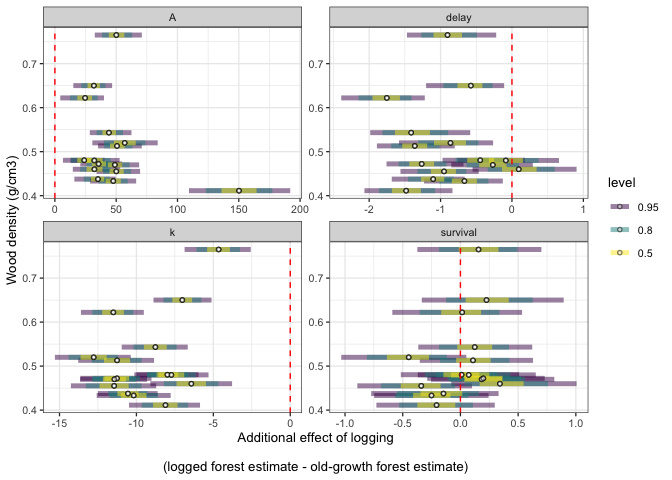
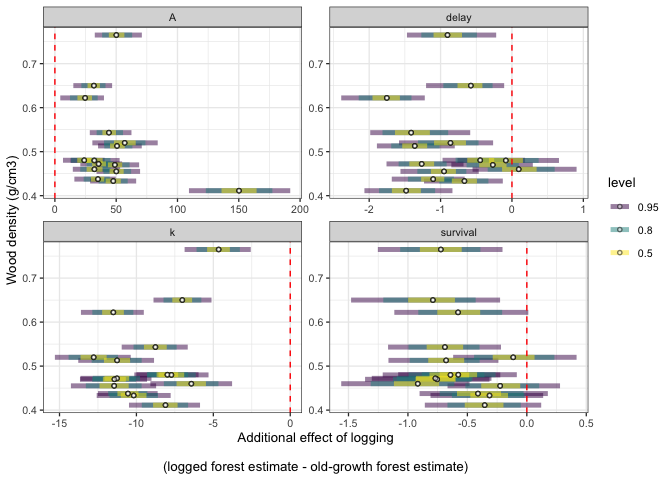
fix errors in survival calcs

diff --git a/code/notebooks/2025-07-03_wood-density.md b/code/notebooks/2025-07-03_wood-density.md
@@ -163,16 +163,18 @@ surv_params <-
                b_timetolastalive_forest_typelogged,
                b_timetolastalive_forest_typeprimary, regex=T) %>%
   mutate(value = case_when(forest_type == "forest_typeprimary" ~
-                             r_genus_species__timetolastalive + b_timetolastalive_forest_typeprimary,
+                             r_genus_species__timetolastalive +
+                             b_timetolastalive_forest_typeprimary,
                            forest_type == "forest_typelogged" ~
-                             r_genus_species__timetolastalive + b_timetolastalive_forest_typelogged)) %>%
+                             r_genus_species__timetolastalive +
+                             b_timetolastalive_forest_typelogged)) %>%
   mutate(forest_type = case_when(
     forest_type == "forest_typelogged" ~ "logged",
     forest_type == "forest_typeprimary" ~ "Primary")) %>% 
   pivot_wider(names_from = forest_type, 
               id_cols = c(genus_species, .chain, .iteration, .draw),
-              values_from = r_genus_species__timetolastalive) %>% 
-  mutate(diff = Primary - logged,
+              values_from = value) %>% 
+  mutate(diff = logged - Primary,
          Parameter = "survival") %>% 
   rename(Species = genus_species)
 ```
